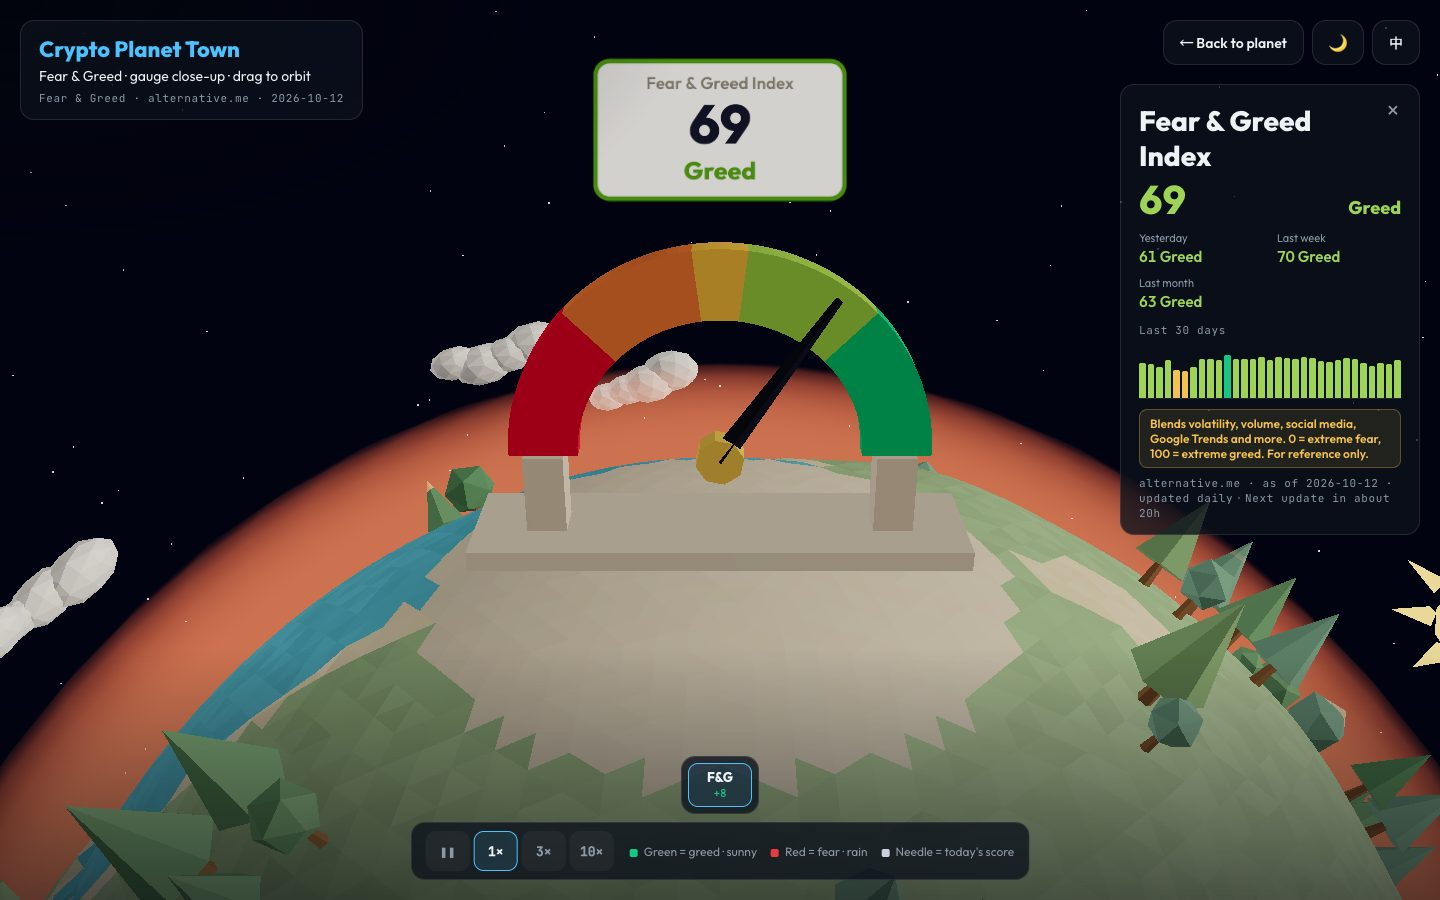
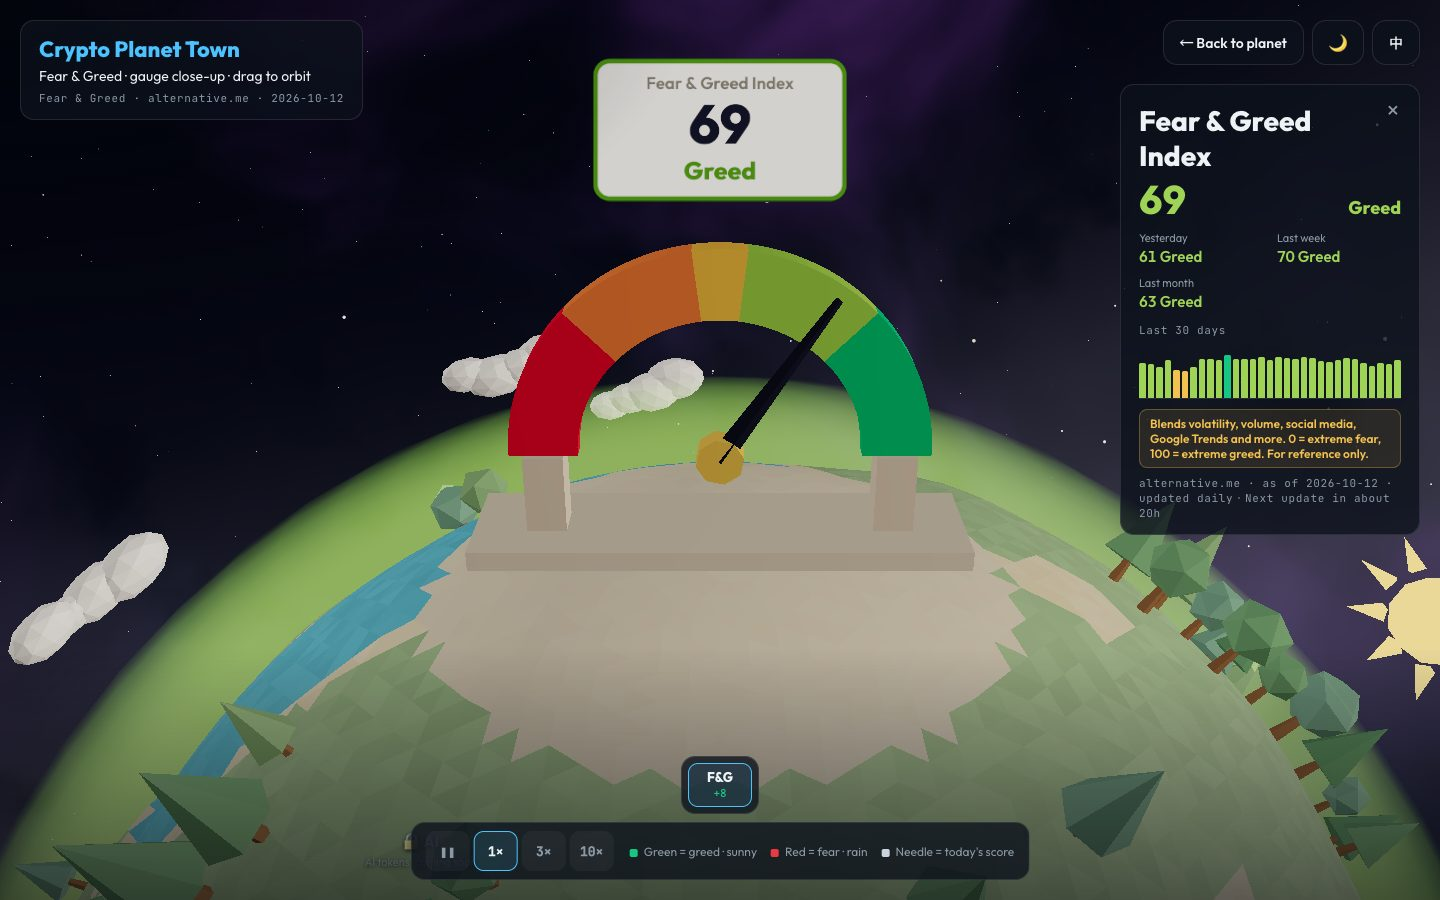
docs: refresh screenshots for the new space backdrop

diff --git a/CLAUDE.md b/CLAUDE.md
@@ -74,6 +74,8 @@ node --env-file=.env.local scripts/fetch-etf.mjs   # 用 SoSoValue Key 產生 pu
 - 人潮模擬為了效能，會在內部就地更新 agent 物件（已在 `crowd.js` 註明）；其他地方維持不可變更新。
 - `camera-rig.js` 直接改 OrbitControls 的內部欄位 `_quat`，依賴 `three@0.170.0`。升級 three 時要一併檢查。
 - **Bloom 門檻 0.95**：只有 `toneMapped: false` 且亮度大於 1 的自發光物件會泛光。白天會亮的東西用 `nightGlow(color, 白天強度, 夜晚強度)`，白天的強度要低於門檻。
+- **宇宙背景**（`kit/space.js`）：星雲在開頁時用 GPU 畫一次成貼圖（桌機 2048、手機 1024 寬），之後只是貼在跟著鏡頭的天空球上；WebGL 內容還原時會重畫。星星是一個 ShaderMaterial Points，閃爍在 GPU 上算。星雲亮度要維持在 Bloom 門檻以下。
+- **恐懼貪婪星的大氣光暈跟著指數變色**（`solar.setGlow` ＋ `moodColor`），其他星球的光暈是星球代表色。
 - **鏡頭飛行與日夜淡入淡出用真實經過時間**（`realDt`），模擬時間才限制每幀上限。CI 機器沒有 GPU，每秒只有幾幀，用受限的 dt 會讓 1.6 秒的飛行拖到十幾秒。
 - **E2E 一律攔截外部 API**（見 `e2e/app.spec.js` 的 `offline()`），不依賴網路；用 `dispatchEvent('click')` 點會公轉移動的星球標籤。
 
